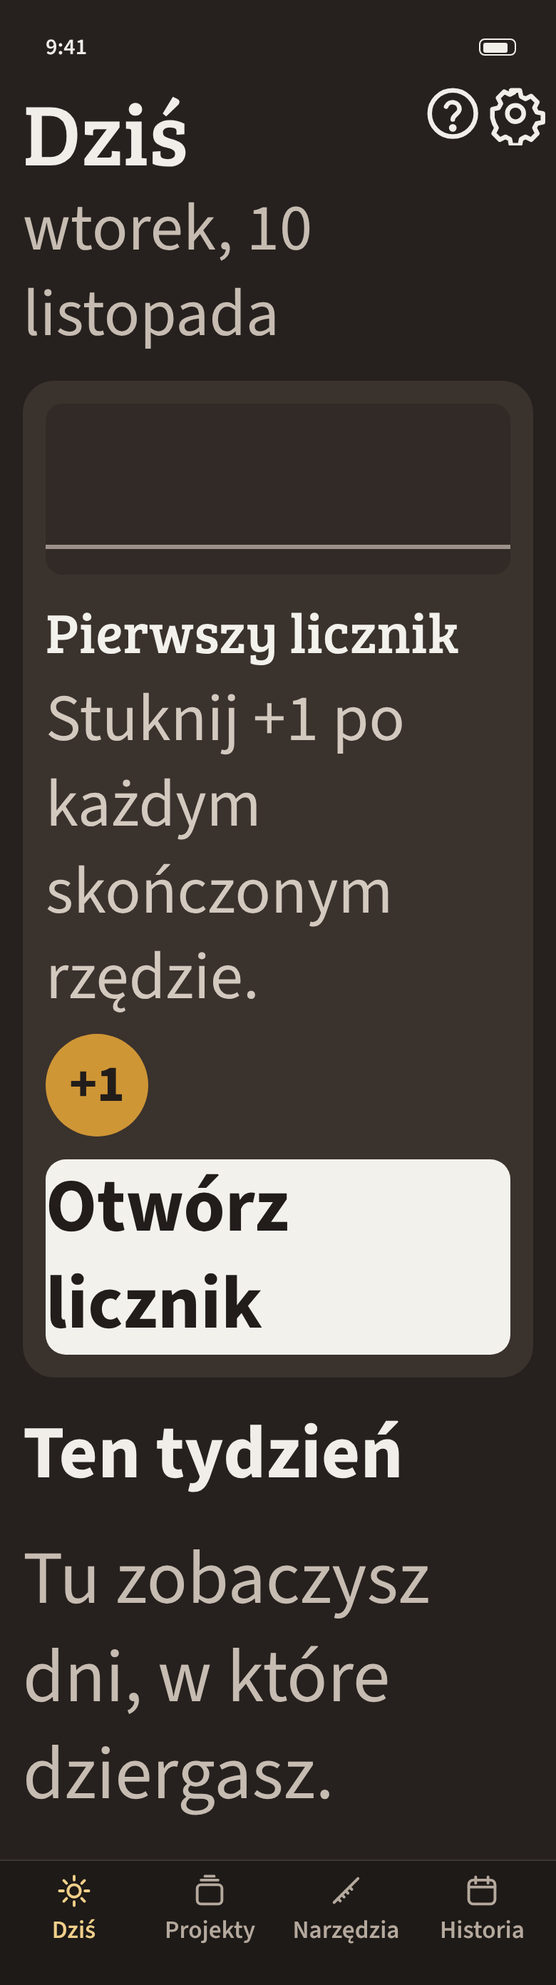
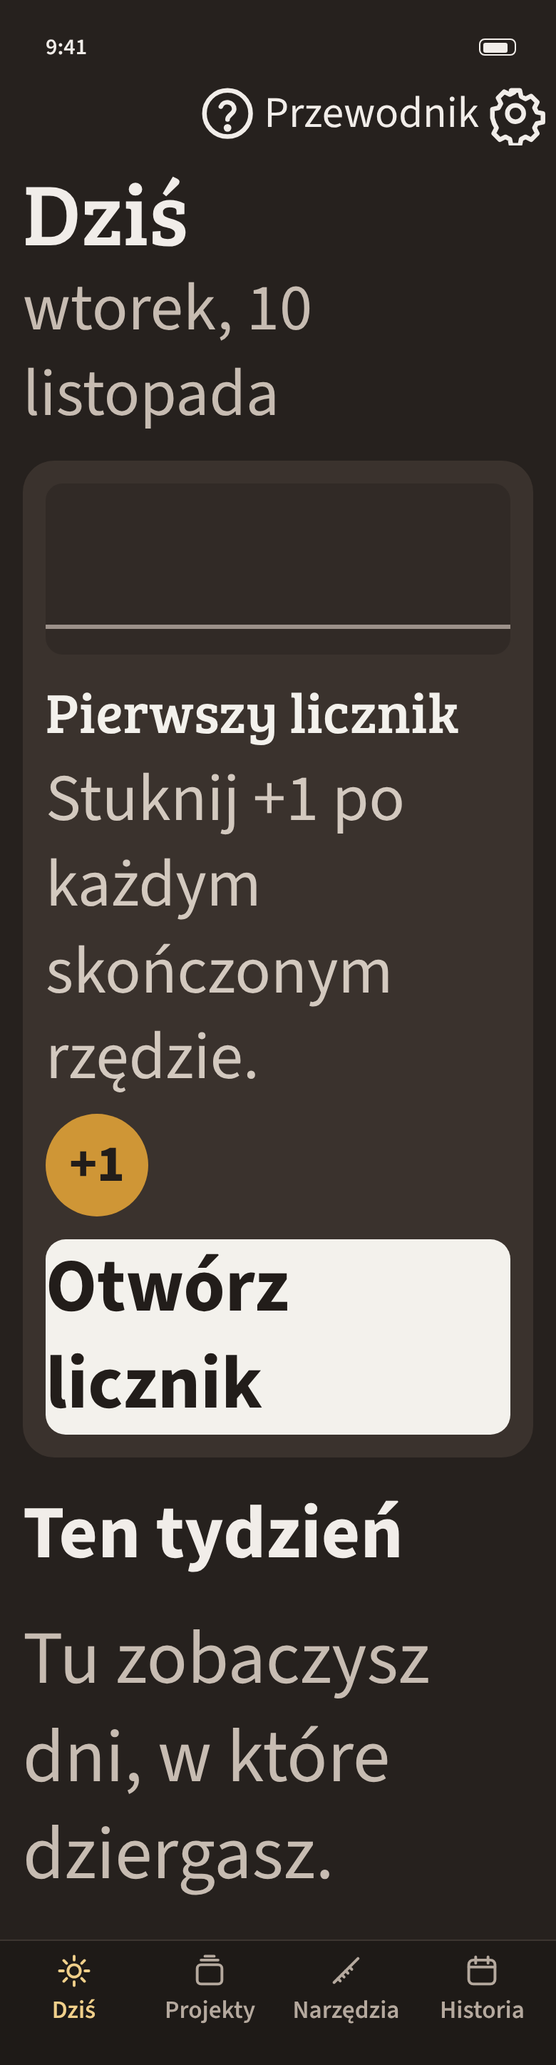
Przewodnik: sekcja „Intuicyjność” i liczenie stuknięć (dopisek właściciela) [skip ci]
- spec §11: 5 kryteriów z dowodem i wynikiem, ścieżki nowej osoby A/B/C ze stuknięciami (1/5, 3/8, 5/3)
- ikona na „Dziś” z widocznym podpisem „Przewodnik” (DEC-05 a); od AX3 symbole nad tytułem (poprawka przepełnienia przy 320 pt)
- kroki 2 i 5: jedna czynność; opis „+1 rząd” w 2 zdaniach
- zrzuty 390 i 320 pt odświeżone, para przed/po; P-685 zaktualizowana; kontrola kod 0

diff --git a/docs/design/przewodnik-2026-11-10/przewodnik.html b/docs/design/przewodnik-2026-11-10/przewodnik.html
@@ -27,6 +27,7 @@ body { background: #8a8d91; font-family: "Source Sans 3", sans-serif; padding: 2
 .naglowek .data { color: var(--tekst2); margin-top: 4px; }
 .symbole { display: flex; gap: 0; flex: none; margin-right: -10px; }
 .pik { width: 44px; height: 44px; display: inline-flex; align-items: center; justify-content: center; font-size: calc(24px * min(var(--dt-tytul), 1.8)); color: var(--tekst); flex: none; position: relative; }
+.pik.zpodpisem { width: auto; gap: 4px; padding: 0 4px; font-size: calc(17px * min(var(--dt-tytul), 1.8)); } .pik.zpodpisem .ik { font-size: calc(24px * min(var(--dt-tytul), 1.8)); } /* DEC-05 a: symbol z podpisem (Pasek.tsx zPodpisem: gap xs, padding xs, typografia.tresc) */
 .pik.cel::after { content: ""; position: absolute; inset: 0; outline: 1px dashed #d0021b; outline-offset: -1px; } /* tylko na zrzucie celu: obrys 44×44 */
 .tresc { flex: 1; display: flex; flex-direction: column; gap: 20px; padding: 16px 16px 112px; }
 .zakladki { position: absolute; left: 0; right: 0; bottom: 0; min-height: 84px; display: flex; justify-content: space-around; padding: 8px 4px 28px; background: var(--pasek); border-top: 1px solid var(--pasekLinia); }
@@ -72,6 +73,7 @@ body { background: #8a8d91; font-family: "Source Sans 3", sans-serif; padding: 2
 .adn { position: absolute; right: 8px; bottom: 92px; font: 600 11px/1.3 "Source Sans 3"; color: var(--tekst2); background: var(--powierzchnia); padding: 4px 8px; border-radius: 6px; opacity: .9; }
 body.duzy .wstep, body.duzy .fn-r p, body.duzy .krok .zd p { overflow-wrap: anywhere; }
 body.duzy .ust { flex-wrap: wrap; } body.duzy .ust .w { flex-basis: 100%; padding-left: calc(44px + 12px); }
+body.duzy .naglowek { flex-direction: column-reverse; align-items: stretch; } body.duzy .symbole { align-self: flex-end; } /* od AX3: symbole w osobnym wierszu nad tytułem, podpis zostaje (nic nie ucięte przy 320 pt) */
 body.duzy .karta { grid-template-columns: 1fr; } body.duzy .karta .dz { min-height: 120px; }
 </style></head><body>
 
@@ -81,7 +83,7 @@ body.duzy .karta { grid-template-columns: 1fr; } body.duzy .karta .dz { min-heig
   <div class="naglowek">
     <div><h1 class="t-duzy br">Dziś</h1><p class="t-pod data">wtorek, 10 listopada</p></div>
     <div class="symbole">
-      <span class="pik" role="button" aria-label="Przewodnik" data-testid="nav-przewodnik"><i data-ikw="pytajnik"></i></span>
+      <span class="pik zpodpisem t-tresc" role="button" aria-label="Przewodnik" data-testid="nav-przewodnik"><i data-ikw="pytajnik"></i><span>Przewodnik</span></span>
       <span class="pik" role="button" aria-label="Ustawienia" data-testid="nav-ustawienia"><i data-ikw="zebatka"></i></span>
     </div>
   </div>

diff --git a/docs/design/przewodnik-2026-11-10/tresc.js b/docs/design/przewodnik-2026-11-10/tresc.js
@@ -76,8 +76,8 @@ window.PRZEWODNIK = {
   },
   {
    "id": "2",
-   "en": "Tap “Open counter”, then ••• → “Name project and part”. The counter becomes your project.",
-   "pl": "Stuknij „Otwórz licznik”, potem ••• → „Nazwij projekt i część”. Licznik staje się projektem.",
+   "en": "On the counter: ••• → “Name project and part”. The counter becomes your project.",
+   "pl": "Na liczniku: ••• → „Nazwij projekt i część”. Licznik staje się projektem.",
    "trasa": "/licznik"
   },
   {
@@ -94,8 +94,8 @@ window.PRZEWODNIK = {
   },
   {
    "id": "5",
-   "en": "Next time, “Today” shows where you stopped: “+1” on the card counts a row, “Continue” opens the counter.",
-   "pl": "Następnym razem „Dziś” pokazuje miejsce ostatniej pracy: „+1” na karcie liczy rząd, „Kontynuuj” otwiera licznik.",
+   "en": "Next time, tap “Continue” on “Today”. The counter opens where you stopped.",
+   "pl": "Następnym razem stuknij „Kontynuuj” na ekranie „Dziś”. Licznik otworzy się w miejscu ostatniej pracy.",
    "trasa": "/"
   },
   {
@@ -138,8 +138,8 @@ window.PRZEWODNIK = {
      "id": "plus",
      "en": "+1 row",
      "pl": "+1 rząd",
-     "opisEn": "Tap “+1 row” after each row; “−1” takes one back. Many quick taps in a row? Oczko offers to undo them.",
-     "opisPl": "„+1 rząd” po każdym rzędzie, „−1” cofa jeden. Seria szybkich stuknięć? Oczko zaproponuje ich cofnięcie.",
+     "opisEn": "Tap “+1 row” after each row; “−1” takes one back. After many quick taps, Oczko offers to undo them.",
+     "opisPl": "„+1 rząd” po każdym rzędzie, „−1” cofa jeden. Po serii szybkich stuknięć Oczko zaproponuje ich cofnięcie.",
      "trasa": "/licznik"
     },
     {

diff --git a/docs/decyzje.md b/docs/decyzje.md
@@ -651,7 +651,7 @@ Rejestr od 2026-10-21. Decyzje poprzedniej wersji (DEC-01–DEC-34) leżą w `ar
 | P-673 | **Fala 09 build 3 (KO-020, P-668; rola 09, sesja H, 2026-11-10, do weta):** 6 kluczy ekranu licencji (`ustawienia.licencje`, `licencje.wstep`, `licencje.grupa_kroje`, `licencje.grupa_licencje`, `licencje.grupa_natywne`, `licencje.grupa_pakiety`) × 34 języki (33 + pl, który też ich nie miał) = 204 teksty, maszynowe: 6 subagentów sonnet z kontekstem `en.kontekst.json`, słownikiem terminów i wskazówką z Treningu (`lib/locales/*.json` @ 2e4b0f8: „Licencje open source”, „Biblioteki natywne iOS spoza npm”; tryb „analogia”); `przeklad-agenci.mjs przyjmij` 34/34 × 6 bez odrzuceń, `przeklad-zastosuj-delta.mjs`; drugi przegląd AI: 3 subagenci w świeżym kontekście, 3 poprawki **przyjęte** (nb `ustawienia.licencje` „Lisenser for åpen kildekode”, nb `licencje.grupa_kroje` „Skrifttyper”, fi `licencje.grupa_natywne` „npm:n ulkopuoliset iOS-kirjastot”), 0 odrzuconych. **Termin „open source” we wszystkich 34 językach: bez źródła Apple** (nie otwarto stron Apple w danym języku; wybór według powszechnego zwyczaju i Treningu, maszynowego) — do rodzimego przeglądu. Zostają po angielsku: da, cs, it, ro, sk, pl (jak Trening). sl `licencje.wstep` przeformułowany („Pri izdelavi aplikacije Oczko je bila uporabljena odprtokodna programska oprema”, omija rodzaj nazwy). pl: tekst maszynowy, bez akceptacji właściciela (jak P-473). `oczekujace.json` pusty; wyjątek P-668 zdjęty: `tests/i18n/wyjatek-build3.ts` usunięty, `krytyczne.test.ts` i `pierwsze-w-fali-154.test.ts` identyczne z 738b0d6; bramka `--wydanie` kod 0; `jezyki.md`, `stan-przeklad.md`. Nie sprawdzono: długość przy 320 pt/AX5, przegląd rodzimy, rodzaj nazwy „Oczko” w hr/sr/et. | (b) dosłowne „Open source licenses” w językach bez przyjętego terminu — gorszy odbiór; (c) pomijać pl — wiersz Ustawień po polsku wracałby do angielskiego. | P-668, P-661, P-461; KO-020. |
 | P-681 | **TF-B3-01: `hermesc` w teście licencji OFL wybierany według `process.platform`, brak = jawny błąd (2026-11-10, rola 08 fix, sesja N, do weta).** Przyczyna czerwonego kroku verify na `macos-26` (testflight run 42836695619, 87ade5a): paczka `hermes-compiler` 250829098.0.17 zawiera `linux64-bin`, `osx-bin` i `win64-bin` naraz, a test z 47c32cb (po buildzie 2, 58284a8) brał pierwszy istniejący plik z `['linux64-bin', 'osx-bin']`, więc na macOS uruchamiał ELF (status null). Wybór w `tests/wydanie/hermesc-sciezka.ts`: darwin → `osx-bin` (Mach-O universal x86_64 + arm64), linux → `linux64-bin`; brak pliku albo inna platforma = wyjątek z nazwą ścieżki, rzucany w samym teście bajtkodu, nie przy ładowaniu pliku. Asercja bajtkodu bez zmian. Analogii w Treningu brak (wyszukiwanie `hermes` w `lkarwowski494/trening`: 0 trafień), więc rekomendacja własna. | (B) próba kolejnych binarek, aż któraś się uruchomi — ukrywa brak binarki właściwej platformy; (C) `hermesc` z `react-native/sdks` — inna ścieżka niż ta, z której korzysta build, bez zysku. | P-667; polecenie N pkt 4.2. |
 | P-682 | **TF-B3-01: win32 bez obsługi w teście bajtkodu — jawny błąd (2026-11-10, rola 08 fix, sesja N, do weta).** CI działa na Linuksie i macOS. Na Windows test i tak padał (brał `linux64-bin`); teraz pada z komunikatem „platforma win32 bez obsługi”. | (B) win32 → `win64-bin/hermesc.exe` — binarka jest w paczce, ale nie da się tego sprawdzić bez Windows; do 1.0.1, jeśli właściciel uruchamia verify na Windows. | Polecenie N pkt 4.2 (darwin, linux). |
-| P-685 | **Przewodnik — wejścia (2026-11-10, rola 04 build, sesja O, do weta; decyzja właściciela 10.11 ok. 15:50 UTC: „Obok zębatki i w ustawieniach…”).** Na „Dziś” `PrzyciskSymbolu` `questionmark.circle` **przed** zębatką (`src/ekrany/Dzis.tsx:183`), 44 × 44 pt, etykieta „Przewodnik”, testID `nav-przewodnik`, tylko na „Dziś” jak zębatka (P-571); w Ustawieniach wiersz „Przewodnik” nad „Pomoc” z wartością „n z m” (`ustawienia-przewodnik`); „Pomoc” (link WWW) dostaje `lifepreserver`, bo `questionmark.circle` znaczy odtąd przewodnik (jeden symbol = jedno znaczenie, jak P-577). Analogia: Trening `app/(tabs)/more.tsx:20` (wiersz z postępem); ikona obok zębatki — z decyzji właściciela, symbol według rekomendacji własnej (Trening nie ma ikony). Specyfikacja: `docs/design/przewodnik-2026-11-10.md` §1. Wyjątek nazwany: kwarantanna 04 — czytany bieżący kod (trasy, testID, klucze). | (B) `signpost.right` albo `book.pages` bez zmiany „Pomocy” — słabiej rozpoznawalne jako „jak to działa”, `book` znaczy już „O naszych treściach”; (C) ikona także na Projektach — sprzeczne z P-571. | Decyzja właściciela 10.11; P-571; P-577. |
+| P-685 | **Przewodnik — wejścia (2026-11-10, rola 04 build, sesja O, do weta; decyzja właściciela 10.11 ok. 15:50 UTC: „Obok zębatki i w ustawieniach…”).** Na „Dziś” `PrzyciskSymbolu` `questionmark.circle` z **widocznym podpisem „Przewodnik”** (jak „Narzędzia”, DEC-05 a; dopisek właściciela 10.11 ok. 17:25 UTC „To ma być intuicyjne.”) **przed** zębatką (`src/ekrany/Dzis.tsx:183`), cel ≥ 44 pt, od AX3 symbole w wierszu nad tytułem, testID `nav-przewodnik`, tylko na „Dziś” jak zębatka (P-571); w Ustawieniach wiersz „Przewodnik” nad „Pomoc” z wartością „n z m” (`ustawienia-przewodnik`); „Pomoc” (link WWW) dostaje `lifepreserver`, bo `questionmark.circle` znaczy odtąd przewodnik (jeden symbol = jedno znaczenie, jak P-577). Analogia: Trening `app/(tabs)/more.tsx:20` (wiersz z postępem); ikona obok zębatki — z decyzji właściciela, symbol według rekomendacji własnej (Trening nie ma ikony). Specyfikacja: `docs/design/przewodnik-2026-11-10.md` §1. Wyjątek nazwany: kwarantanna 04 — czytany bieżący kod (trasy, testID, klucze). | (A2) sam symbol bez podpisu, tylko etykieta VoiceOver — kryterium intuicyjności (1) wymaga podpisu widocznego bez wiedzy o aplikacji; (B) `signpost.right` albo `book.pages` bez zmiany „Pomocy” — słabiej rozpoznawalne jako „jak to działa”, `book` znaczy już „O naszych treściach”; (C) ikona także na Projektach — sprzeczne z P-571. | Decyzja właściciela 10.11; P-571; P-577. |
 | P-686 | **Przewodnik — jeden ekran `app/przewodnik.tsx` (2026-11-10, rola 04, sesja O, do weta).** Duży tytuł, wstęp, sekcja „Pierwsze kroki” (6 kroków zawsze widocznych: numer, zdanie, „Pokaż ›”) i „Biblioteka funkcji” (postęp „Przeczytane: n z m”, 9 grup z nagłówkami, 42 funkcje jako wiersze rozwijane, najwyżej jeden rozwinięty, bez animacji). Analogia: Trening wariant A (`app/guide.tsx:26–40`, rozwijane tematy z „Pokaż”); „Pokaż” jako przycisk tekstowy `akcentTekst` po krytyce zrzutu (obramowane przyciski przeważały nad treścią). | (B) przełącznik segmentowy „Pierwsze kroki / Wszystkie funkcje” — ukrywa połowę, trzeci poziom nawigacji; (C) osobny ekran na funkcję — dwa stuknięcia do opisu; (D) wszystko rozwinięte — kilka tysięcy pt przewijania. | P-685. |
 | P-687 | **Przewodnik — „Pokaż” (2026-11-10, rola 04, sesja O, do weta).** Jak Trening `app/guide.tsx:21`: zakładka → `dismissAll` + `navigate`, inna trasa → `push`. `/licznik` i `/wzor` z ostatniego miejsca jak „Kontynuuj” (`app/(zakladki)/index.tsx:64`) i „Wzór” licznika (`app/licznik.tsx:64`), bez miejsca → `/`; `/projekt/[id]` projektu ostatniego miejsca, bez niego → `/projekty`. „Pokaż” nie otwiera menu ani arkuszy. **Oczko Pro → `/ustawienia`, nie `/oferty`** (ER-70, BR-ZAK-006, P-563 (10): zakup tylko z komunikatu limitu i Ustawień). Apple Watch bez „Pokaż” (aplikacja zegarka). | (B) „Pokaż” otwiera też pozycję menu albo arkusz (np. „Cel”) — niestandardowe zachowanie i kruche E2E; (C) Pro → `/oferty` — trzecie wejście do zakupu wbrew ER-70. | ER-70; P-563 (10); [DO USTALENIA 08: zachowanie `/licznik` i `/wzor` bez ostatniego miejsca]. |
 | P-688 | **Przewodnik — stan przeczytania (2026-11-10, rola 04, sesja O, do weta, warunkowa).** Funkcja przeczytana przy pierwszym rozwinięciu (Trening `lib/guide.ts:78` `markGuideSeen`); znak `checkmark` w `tekst2` przed szewronem, VoiceOver „przeczytane / nieprzeczytane”; kroki bez stanu; bez plakietki na ikonie. Zapis lokalny (lista id), bez iCloud i bez eksportu (stan ekranu, nie dane robótki — jak Trening „bez `userTouched`”), czyszczony przez „Usuń wszystkie dane”. | (B) kółko z ptaszkiem jak w Treningu — w Dzianinie to język wyboru (`znaczniki.radio`); (C) kroki odhaczane z danych — więcej logiki bez dowodu wartości; (D) plakietka nieprzeczytanych — presja bez wartości. | Warunkowa: miejsce zapisu [DO USTALENIA 05]. |

diff --git a/docs/design/przewodnik-2026-11-10.md b/docs/design/przewodnik-2026-11-10.md
@@ -13,10 +13,11 @@ Decyzja właściciela (10.11 ok. 15:50 UTC, dosłownie): „Obok zębatki i w us
 | Makieta (4 ekrany) | `przewodnik-2026-11-10/przewodnik.html` (dane z `tresc.js`) |
 | Zrzuty 390 pt: 4 ekrany × jasny/ciemny × domyślny/AX5 (16) + en jasny dla 2 ekranów przewodnika (makiety „Dziś” i Ustawień są tylko po polsku) + arkusz | `przewodnik-2026-11-10/zrzuty/` (`narzedzia/przewodnik-zrzuty.mjs`) |
 | Pomiar warsztatu 390 pt (0 błędów) i obraz mrużenia | `przewodnik-2026-11-10/warsztat-390.txt`, `przewodnik-mruzenie-390.png` |
+| Zrzuty 320 pt (te same warianty, kontrola przepełnienia) | `przewodnik-2026-11-10/zrzuty-320/` |
 | Pary przed/po krytyki | `przewodnik-2026-11-10/przed-po/` |
 
 ## 1. Wejścia (P-685)
-- **„Dziś”, pasek** (`src/ekrany/Dzis.tsx:183`): nowy `PrzyciskSymbolu` **przed** zębatką (zębatka zostaje skrajna). Symbol `questionmark.circle` (iOS 13), rozmiar i kolor jak zębatka (`ROZMIAR_SYMBOLU`, `tekst`, limit skali `MAX_SKALA_TYTULOWA`), cel 44 × 44 pt (`cel.minimum`, styl `symbol` w `Pasek.tsx`), etykieta VoiceOver `przewodnik.tytul` („Przewodnik” / „Guide”), rola przycisku, testID `nav-przewodnik`. Tylko na „Dziś” — jak zębatka (P-571). Bez plakietki nieprzeczytanych. Zrzut: `zrzuty/dzis-przewodnik-*`.
+- **„Dziś”, pasek** (`src/ekrany/Dzis.tsx:183`): nowy `PrzyciskSymbolu` **przed** zębatką (zębatka zostaje skrajna). Symbol `questionmark.circle` (iOS 13) **z widocznym podpisem** `przewodnik.tytul` (właściwość `podpis`, jak „Narzędzia” DEC-05 a, `src/ekrany/ListaProjektow.tsx:75–76`, dotąd „jedyny symbol z widocznym podpisem” — przewodnik jest drugim; wymaganie właściciela „To ma być intuicyjne”, 10.11), rozmiar i kolor jak zębatka (`ROZMIAR_SYMBOLU`, `tekst`, limit skali `MAX_SKALA_TYTULOWA`), cel 44 × 44 pt (`cel.minimum`, styl `symbol` w `Pasek.tsx`), etykieta VoiceOver `przewodnik.tytul` („Przewodnik” / „Guide”), rola przycisku, testID `nav-przewodnik`. Tylko na „Dziś” — jak zębatka (P-571). Od AX3 symbole paska przechodzą do osobnego wiersza nad tytułem „Dziś” (podpis zostaje; przy 320 pt i AX5 inaczej wypadały poza ekran — `przed-po/ax5-320-dzis-*`). Bez plakietki nieprzeczytanych. Zrzut: `zrzuty/dzis-przewodnik-*`.
 - **Ustawienia** (`src/ekrany/Ustawienia.tsx:121–129`): wiersz „Przewodnik” w grupie z „Pomoc”, **bezpośrednio nad „Pomoc”**; kafelek ikony `questionmark.circle`, wartość `przewodnik.postep_wiersza` („3 z 42”, `tekst2`, `accessibilityValue`), strzałka, testID `ustawienia-przewodnik`. Zrzut: `zrzuty/ustawienia-przewodnik-*`.
 - **„Pomoc”** (link WWW wsparcia) zmienia symbol z `questionmark.circle` na `lifepreserver` (iOS 14): jeden symbol = jedno znaczenie (zasada studia 6; tak samo P-577 dla `sun.max`).
 
@@ -82,8 +83,25 @@ Kontrakt zakresu: 51 funkcji MVP; 49 ma miejsce w krokach albo w bibliotece (lis
 3. Dwie funkcje „Historia” (licznika i zakładki) — rozróżnia je grupa i etykieta VoiceOver z grupą w nagłówku; zostawione, bo obie nazwy są w interfejsie (nowa nazwa byłaby drugą nazwą tej samej funkcji).
 4. Pomiar warsztatu (`warsztat-390.txt`): 0 błędów; ostrzeżenia dotyczą całej strony makiety (4 ekrany, w tym uproszczona karta „Dziś” i pasek zakładek) — sam ekran przewodnika ma 4 wielkości (34, 22, 17, 15) i 3 kolory tekstu (`tekst`, `tekst2`, `akcentTekst`); odstęp 2 px to przerwa tekst–symbol w łączu (jak `nav` w `dzianina/ekrany.html`).
 
+## 11. Intuicyjność (wymaganie właściciela 10.11 ok. 17:25 UTC: „To ma być intuicyjne.”)
+| Kryterium | Jak spełnione | Sprawdzenie | Wynik na makiecie |
+|---|---|---|---|
+| (1) Wejście widać bez szukania; ikona z podpisem albo etykietą zrozumiałą bez wiedzy o aplikacji | „? Przewodnik” z widocznym podpisem w pasku „Dziś” — ekranu, od którego zawsze startuje aplikacja (P-563 (4a)), bez przewijania; drugie wejście: wiersz „Przewodnik” w Ustawieniach; etykieta VoiceOver = podpis | zrzuty `dzis-przewodnik-*` (390 i 320 pt, AX5); E2E 07: `nav-przewodnik` widoczny bez przewijania na świeżej instalacji | spełnione (320 pt AX5 po poprawce) |
+| (2) Od otwarcia przewodnika do właściwego ekranu najwyżej 2 stuknięcia | krok: 1 stuknięcie („Pokaż”); funkcja: 2 (rozwiń, „Pokaż”); jedyny wyjątek bez ekranu: Apple Watch (aplikacja zegarka) | E2E 07: `przewodnik-f-cel` → `przewodnik-f-cel-pokaz` → `licznik-*` | spełnione |
+| (3) „Pierwsze kroki” od razu na górze i rozwinięte; biblioteka niżej, w grupach nazwanych słowami użytkownika | kroki pierwsze pod tytułem, zawsze widoczne (bez zwijania); grupy noszą nazwy, które osoba widzi w aplikacji: zakładki (Dziś, Projekty, Narzędzia, Historia), tytuły ekranów (Licznik, Wzór, Ustawienia, Oczko Pro), powierzchnie systemu (Apple Watch i ekran blokady) — żadnej nazwy modułu z kodu | zrzut `przewodnik-kroki-*`; kontrola: nazwa każdej grupy jest kluczem interfejsu | spełnione |
+| (4) Zdania krótkie, w każdym kroku jedna czynność, nazwy z interfejsu | po dopisku: krok 2 bez „Otwórz licznik” (to robi „Pokaż”), krok 5 tylko „Kontynuuj”; zdania kroków ≤ 13 słów (pl i en), opisy ≤ 18 słów w zdaniu i 1–2 zdania; nazwy w cudzysłowach = wartości kluczy interfejsu (kontrola kod 0) | `kontrola.txt`; pomiar słów w zdaniach (pl: 13/4, 6/4, 8/6, 11/6, 7/7, 11) | spełnione |
+| (5) Bez samouczka nakładkowego, który blokuje ekran | przewodnik to zwykły ekran; nic nie pojawia się samo; NFR-PIE-001: 0 ekranów przed pierwszym „+1” | Trening ma tak samo: przewodnik jako ekran (`trening:app/guide.tsx:14`), „Pierwsze kroki” jako karta na ekranie głównym tylko dla nowej osoby (`trening:components/Dashboard.tsx:106`), podpowiedzi na ekranach i karuzela odrzucone (`trening:docs/18-archiwum-do-11.10.md:139`) | spełnione |
+
+**Ścieżka nowej osoby: pusta aplikacja → pierwszy rząd → pierwszy projekt (liczenie stuknięć).** Ekrany spoza tej makiety według zatwierdzonych makiet Dzianiny (`dzianina/ekrany.html`: `dzis-pierwszy`, `licznik`, `formularz-*`) i przepływów z listy testu buildu 3 (T-03, T-20); wpisanie nazwy nie jest liczone jako stuknięcie.
+| Ścieżka | Stuknięcia do pierwszego rzędu | Do pierwszego projektu (nazwa zapisana) |
+|---|---|---|
+| A. Bez przewodnika: „+1” na karcie „Pierwszy licznik” → „Otwórz licznik” → ••• → „Nazwij projekt i część” → nazwa → „Zapisz” | **1** | **5** |
+| B. Z przewodnikiem, krok po kroku: „Przewodnik” → krok 1 „Pokaż” (wraca na „Dziś”) → „+1” → „Przewodnik” → krok 2 „Pokaż” (licznik) → ••• → „Nazwij projekt i część” → „Zapisz” | **3** | **8** |
+| C. Projekt najpierw: „Projekty” → „Nowy projekt” → nazwa → „Dodaj” → część na ekranie projektu → „+1 rząd” | **5** | **3** |
+Wniosek: przewodnik nie jest potrzebny do pierwszego rzędu (ścieżka A, 1 stuknięcie) i dodaje 3 stuknięcia osobie, która chce iść krokami (B). Krok 1 „Pokaż” otwarty z „Dziś” tylko zamyka przewodnik — świadomie: ten sam przycisk działa z Ustawień. Przejście poznawcze z 3–5 osobami (bez instrukcji: „załóż projekt i policz rząd”, potem „znajdź, jak ustawić przypomnienie”) — krok właściciela po wdrożeniu, wynik do roli 03 (kolumna „Intuicyjność” kontraktu).
+
 ## Czego nie sprawdzono
-Urządzenie (SF Symbols `questionmark.circle` i `lifepreserver` obok zębatki, Dynamic Type na żywo, VoiceOver), 320 i 430 pt, iPad, najdłuższy język (DE — teksty powstaną w roli 09), przejście poznawcze z 3–5 osobami. Makieta „Dziś” ma uproszczoną kartę (bez rysunku dzianiny) — ocenia się tylko pasek z dwoma symbolami.
+Urządzenie (SF Symbols `questionmark.circle` i `lifepreserver` obok zębatki, Dynamic Type na żywo, VoiceOver), 430 pt (320 pt sprawdzone na makiecie), iPad, najdłuższy język (DE — teksty powstaną w roli 09), przejście poznawcze z 3–5 osobami. Makieta „Dziś” ma uproszczoną kartę (bez rysunku dzianiny) — ocenia się tylko pasek z dwoma symbolami.
 
 ## Szacunek pracy [OCENA agenta, nie pomiar]
 - **08 (kod):** ekran `app/przewodnik.tsx` + komponent, dane przewodnika z kluczami, zapis przeczytanych, 2 wejścia, zmiana symbolu „Pomoc”, test nazw i testy ekranu — ok. 2–3 h pracy agenta, jedna partia; czekanie: verify i CI.

diff --git a/docs/design/przewodnik-2026-11-10/klucze.md b/docs/design/przewodnik-2026-11-10/klucze.md
@@ -18,14 +18,14 @@
 | `przewodnik.grupa_poza` | Apple Watch and Lock Screen | Apple Watch i ekran blokady | nagłówek ostatniej grupy (powierzchnie systemu, bez nazwy w interfejsie) |
 | `przewodnik.nazwa_ekran_blokady` | Lock Screen | Ekran blokady | nazwa funkcji (powierzchnia systemu; termin Apple) |
 | `przewodnik.krok_1` | On “Today”, tap “+1” on the “First counter” card after each finished row. Nothing to set up first. | Na ekranie „Dziś” stuknij „+1” na karcie „Pierwszy licznik” po każdym skończonym rzędzie. Nic nie trzeba zakładać. | `/` |
-| `przewodnik.krok_2` | Tap “Open counter”, then ••• → “Name project and part”. The counter becomes your project. | Stuknij „Otwórz licznik”, potem ••• → „Nazwij projekt i część”. Licznik staje się projektem. | `/licznik` (bez miejsca: `/`) |
+| `przewodnik.krok_2` | On the counter: ••• → “Name project and part”. The counter becomes your project. | Na liczniku: ••• → „Nazwij projekt i część”. Licznik staje się projektem. | `/licznik` (bez miejsca: `/`) |
 | `przewodnik.krok_3` | On the counter: “Goal” → “Set a goal for this part”. The knitting next to the number grows towards the goal. | Na liczniku: „Cel” → „Ustaw cel dla tej części”. Dzianina obok liczby rośnie do celu. | `/licznik` (bez miejsca: `/`) |
 | `przewodnik.krok_4` | “Pattern” → “Add pattern”: a PDF or Word file, photos or a web page. The counter stays on the same screen. | „Wzór” → „Dodaj wzór”: plik PDF lub Word, zdjęcia albo strona WWW. Licznik zostaje na tym samym ekranie. | `/wzor` (bez miejsca: `/`) |
-| `przewodnik.krok_5` | Next time, “Today” shows where you stopped: “+1” on the card counts a row, “Continue” opens the counter. | Następnym razem „Dziś” pokazuje miejsce ostatniej pracy: „+1” na karcie liczy rząd, „Kontynuuj” otwiera licznik. | `/` |
+| `przewodnik.krok_5` | Next time, tap “Continue” on “Today”. The counter opens where you stopped. | Następnym razem stuknij „Kontynuuj” na ekranie „Dziś”. Licznik otworzy się w miejscu ostatniej pracy. | `/` |
 | `przewodnik.krok_6` | Another project: “Projects” → “New project”, with parts now or later. | Kolejny projekt: „Projekty” → „Nowy projekt”, z częściami od razu albo później. | `/projekty` |
 | `przewodnik.f_kontynuuj` | “+1” on the card counts a row without opening the counter. “Continue” opens the counter where you stopped. | „+1” na karcie liczy rząd bez otwierania licznika. „Kontynuuj” otwiera licznik w miejscu ostatniej pracy. | `/` → `app/(zakladki)/index.tsx` |
 | `przewodnik.f_tydzien` | The days you knitted this week, at a glance. | Dni dziergania w tym tygodniu, na jedno spojrzenie. | `/` → `app/(zakladki)/index.tsx` |
-| `przewodnik.f_plus` | Tap “+1 row” after each row; “−1” takes one back. Many quick taps in a row? Oczko offers to undo them. | „+1 rząd” po każdym rzędzie, „−1” cofa jeden. Seria szybkich stuknięć? Oczko zaproponuje ich cofnięcie. | `/licznik` → `app/licznik.tsx` (bez miejsca: `/`) |
+| `przewodnik.f_plus` | Tap “+1 row” after each row; “−1” takes one back. After many quick taps, Oczko offers to undo them. | „+1 rząd” po każdym rzędzie, „−1” cofa jeden. Po serii szybkich stuknięć Oczko zaproponuje ich cofnięcie. | `/licznik` → `app/licznik.tsx` (bez miejsca: `/`) |
 | `przewodnik.f_historia_licznika` | Every change with its time and value; undo a change from there. | Każda zmiana z godziną i wartością; stamtąd cofniesz zmianę. | `/licznik` → `app/licznik.tsx` (bez miejsca: `/`) |
 | `przewodnik.f_wpisz` | In the ••• menu: type the row number, or “Reset to 0…”. | W menu •••: wpisz numer rzędu albo „Wyzeruj do 0…”. | `/licznik` → `app/licznik.tsx` (bez miejsca: `/`) |
 | `przewodnik.f_blokada` | The counter ignores taps, e.g. in a bag. Unlock it at the top of the screen. | Licznik ignoruje stuknięcia, np. w torbie. Odblokujesz go u góry ekranu. | `/licznik` → `app/licznik.tsx` (bez miejsca: `/`) |

diff --git a/docs/design/przewodnik-stan.md b/docs/design/przewodnik-stan.md
@@ -5,7 +5,7 @@ Aktualizacja: 2026-11-10 · gałąź `claude/o-przewodnik-2026-11-10` (od 7defd5
 |---|---|---|
 | 1 Rozpoznanie | zrobione, raport do koordynatora | zębatka `src/ekrany/Dzis.tsx:183`; Ustawienia `src/ekrany/Ustawienia.tsx:91–140`; Trening `app/guide.tsx`, `lib/guide.ts` |
 | 2 Specyfikacja | zrobione | `przewodnik-2026-11-10.md`, `przewodnik-2026-11-10/klucze.md`; P-685–P-689 |
-| 3 Makieta i zrzuty | zrobione (390 pt, jasny/ciemny, domyślny/AX5, en dla 2 ekranów) | `przewodnik-2026-11-10/zrzuty/` (19 + arkusz), `przed-po/`, `warsztat-390.txt` (0 błędów) |
+| 3 Makieta i zrzuty | zrobione (390 i 320 pt, jasny/ciemny, domyślny/AX5, en dla 2 ekranów); dopisek „Intuicyjność” — spec §11 | `przewodnik-2026-11-10/zrzuty/` (19 + arkusz), `przed-po/`, `warsztat-390.txt` (0 błędów) |
 | 4 Kryterium „gotowe” | kontrola kod 0: 42 funkcje, każda z plikiem trasy poza Apple Watch (uzasadnione); 61 nowych kluczy | `przewodnik-2026-11-10/kontrola.txt` |
 
 Następny krok: decyzje do weta (koordynator) → rola 08 (kod, partia przewodnika) → 07 (E2E) → 09 (2074 teksty). Otwarte: [DO USTALENIA 05] miejsce zapisu przeczytanych; [DO USTALENIA 08] `/licznik` i `/wzor` bez ostatniego miejsca, szerokość kolumny na iPadzie.
